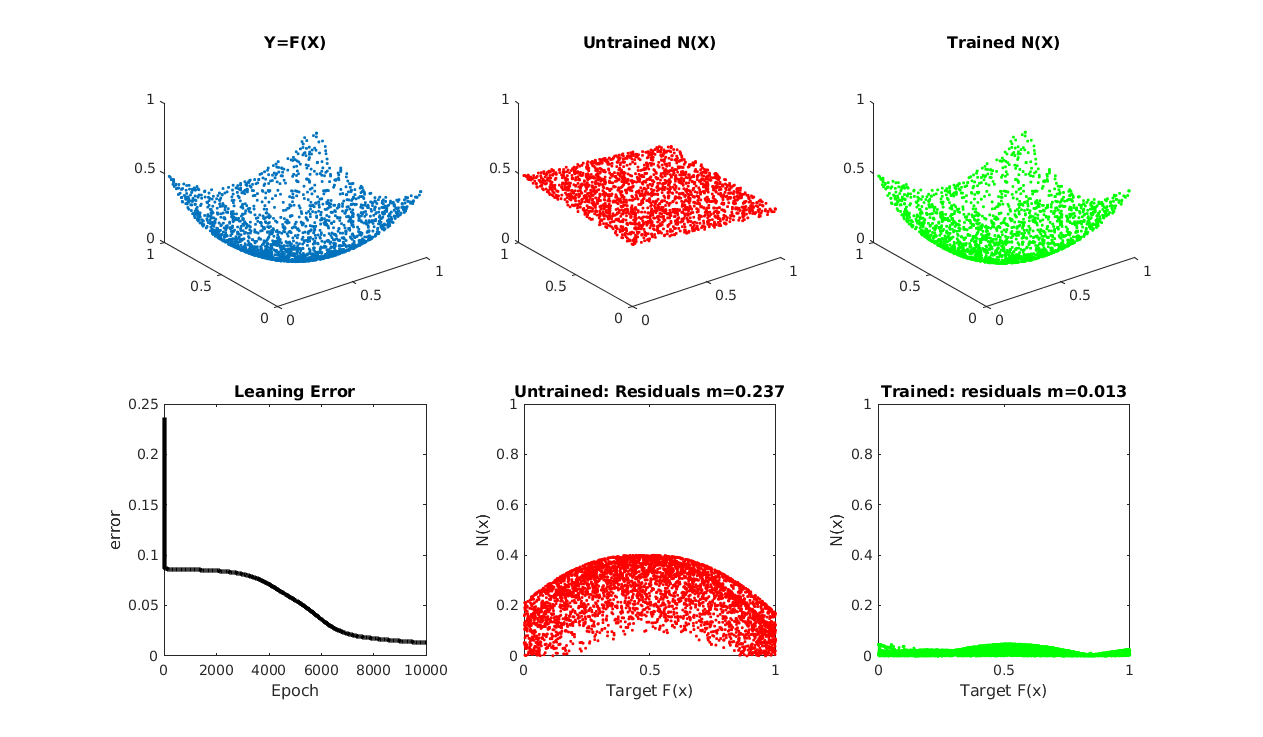
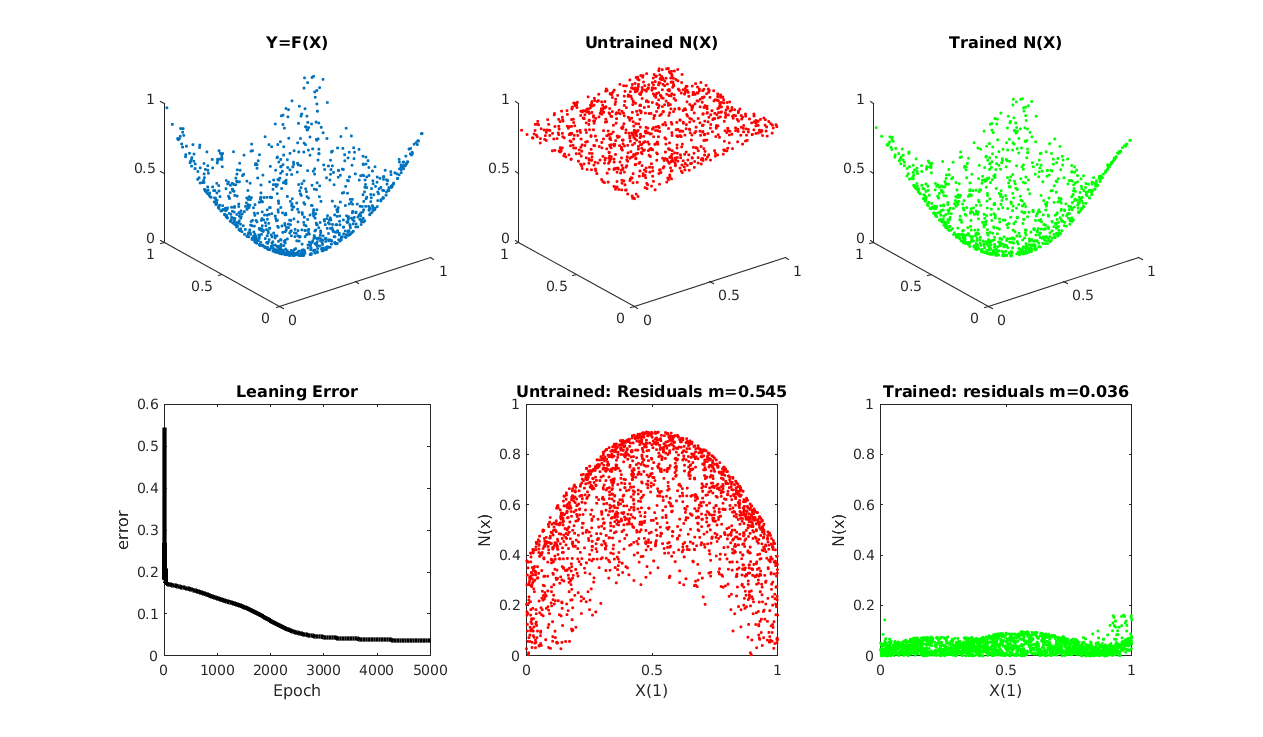
main

diff --git a/mlp/mlp_backprop.m b/mlp/mlp_backprop.m
@@ -3,20 +3,33 @@
 % T: Target data
 function N=mlp_backprop(N,X,T)
  lc=N.lc;                       % Learning coefficient
- [Y, H]=mlp_activate(N,X);      % Activate the MLP on data 
- E=T-Y;                         % Errors for each data patterns
+ mc=N.mc;                       % Momentum coefficient
  
- dY = E.*Y.*(1-Y);              % Deltas at the output layer
- dW = (H'*dY);                  % Weight change 
- N.ow = N.ow + lc * dW;         % ow: [nh,no]
- N.ob = N.ob + lc * sum(dY);    % ob  [1 ,no]
+ [Y, H]=mlp_activate(N,X);      % Activate the MLP on data
  
- dH = (dY*N.ow').*H.*(1-H);     % Deltas at the hidden layer  
- dW = (X'*dH);                  % Weigh changes 
- N.hw = N.hw + lc * dW;         % hw  [in,nh]
- N.hb = N.hb + lc * sum(dH);    % hb  [1 ,nh]
+ oE=T-Y;                        % Errors at the output layer 
+ dY = oE.*Y.*(1-Y);             % Deltas at the output layer
+ dW = (H'*dY);                  % Weight change
+ dB = sum(dY);                  % change of bias
+  
+ N.dow=mc*N.dow+(1-mc)*dW;      % Momentum term (weights)
+ N.dob=mc*N.dob+(1-mc)*dB;      % momentum of bias
  
- N.e=mean(abs(E(:)));           % Average error over all output units and all data
+ N.ow = N.ow + lc * N.dow;      % ow: [nh,no]
+ N.ob = N.ob + lc * N.dob;      % ob  [1 ,no]
+ 
+ hE=(dY*N.ow');                 % Errors at the hidden layer (propoagated from top layer)
+ dY = hE.*H.*(1-H);             % Deltas at the hidden layer  
+ dW = (X'*dY);                  % Weigh changes 
+ dB = sum(dY);                  % change of bias
+ 
+ N.dhw=mc*N.dhw+(1-mc)*dW;      % Momentum term of weights
+ N.dhb=mc*N.dhb+(1-mc)*dB;      % momentum of bias
+ 
+ N.hw = N.hw + lc * N.dhw;      % hw  [in,nh]
+ N.hb = N.hb + lc * N.dhb;      % hb  [1 ,nh]
+ 
+ N.e=mean(abs(oE(:)));          % Average error over all output units and all data
  N.lepochs=N.lepochs+1;         % Add the number of epochs so far
  N.lpatterns=N.lpatterns+size(X,1); % Total number of learning patterns
 

diff --git a/digits/digitdata.m b/digits/digitdata.m
@@ -1,24 +1,37 @@
-% [X,Y,N,A]=digitdata(n,lim)
-% loads n digits of size 20x20
-% Example: [X,Y,N,A]=digitdata(100);
+% D=digitdata
+% Load digit- dataset and add a digit-balanced set for training, test, and validation.
+% The digit images of size 20x20 are stored as vectorized. 
+% To turn back do images, use img=reshape(vect,20,20)
+%
+% D.IMG: matrix with vectorized 5000 images of digits (500 images per digit)
+% D.Num: digit label (0..9)
+% D.Ang: image inclination circa (-50 .. 50 degree)
+% D.Itr: set of nte images per digit, to be usef for training
+% D.Ite: set of nte images per digits, to used for test
+% D.Iva: set of nva images per digits, to be used or validation
 
-function [X,Y,N,A]=digitdata(n)
-load('Digits20x20');
-X=[]; N=[]; A=[];
+function D=digitdata(ntr,nte,nva)
+load('Digits20x20');                  % Load dataset
+if (ntr+nte+nva)*10>D.n, 
+  error('Too many samples. In total there are 500 samples per digit.'); 
+end
+Itr=[]; Ite=[]; Iva=[];               % Empty indexes
 
-for i=0:9
-  I=find(D.Num==i);
+for dig=0:9    
+  I=find(D.Num==dig);                 % Find all images containing digit "dig"
   nI=numel(I);
-  I=I(randperm(nI,n));
-  X=[X;D.IMG(I,:)];
-  N=[N;D.Num(I,:)];
-  A=[A;D.Ang(I,:)];
+  I=I(randperm(nI));                  % randomize the index
+  
+  Itr=[Itr;I(1:ntr)]; I=I(ntr+1:end); % add to the training set and keep the rest
+  Ite=[Ite;I(1:nte)]; I=I(nte+1:end); % add to the test set and keep the rest  
+  Iva=[Iva;I(1:nva)];                 % add to the validation set  
 end
 
-nn=numel(N);
-Y=zeros(nn,10);         % memory for one-hot-coding
-for i=1:nn
-  Y(i,N(i)+1)=1;        % one-hot-coding of N (N is 0-9)
-end
+D.Itr=Itr;                            % Training, test, validation subset
+D.Ite=Ite;
+D.Iva=Iva;
+D.ntr=numel(D.Itr);                   % Size of those subsets
+D.nte=numel(D.Ite);
+D.nva=numel(D.Iva;)
 
 end

diff --git a/mlp/test_mlp.m b/mlp/test_mlp.m
@@ -1,13 +1,13 @@
 % MLP as universal function approximator
 
 % DATA
-X=rand(2000,2);                       % X [ 0...1 , 0...1 ]
-T=(X(:,1)-0.5).^2 + (X(:,2)-0.5).^2; % F(x) quadratic function
+X=rand(1000,2);                       % X [ 0...1 , 0...1 ]
+T=((X(:,1)-0.5).^2 + (X(:,2)-0.5).^2)*2; % F(x) quadratic function. F(x)=[0..1]                                
 
 %% MODEL
 N = mlp_init([2 30 1]); 
 Y0 = mlp_activate(N,X);
-N = mlp_train(N,X,T,10000);
+N = mlp_train(N,X,T,5000);
 Y1 = mlp_activate(N,X);
 
 %% DIAGNOSTICS
@@ -15,8 +15,8 @@ Residuals0=abs(T-Y0);		% untrained
 Residuals1=abs(T-Y1);		% trained
 
 % Numerical output
-merr0=mean(abs(Difference0)); 	% average error untrained
-merr1=mean(abs(Difference1));	% average error trained
+merr0=mean(abs(Residuals0)); 	% average error untrained
+merr1=mean(abs(Residuals1));	% average error trained
 fprintf('error Untrained = %.3f  Trained %.3f \n',merr0,merr1);
 
 %% Graphical analysis
@@ -48,18 +48,18 @@ ylabel('error');
 title('Leaning Error');
 
 subplot(2,3,5);  
-plot(X,Difference0,'r.');	% plot target vs untrained (as dots)
+plot(X,Residuals0,'r.');	% plot target vs untrained (as dots)
 axis equal;                 	% use same scale for absc and ordinate
 xlim([0 1]);ylim([0 1]);
-xlabel('Target F(x)'); 
+xlabel('X(1)'); 
 ylabel('N(x)');
 title(sprintf('Untrained: Residuals m=%.3f',merr0));
 
 subplot(2,3,6);             
-plot(X,Difference1,'g.');	% plot targets vs trained (as dots)
+plot(X,Residuals1,'g.');	% plot targets vs trained (as dots)
 axis equal;
 xlim([0 1]);ylim([0 1]);
-xlabel('Target F(x)'); 
+xlabel('X(1)'); 
 ylabel('N(x)');
 title(sprintf('Trained: residuals m=%.3f',merr1));
 

diff --git a/mlp/mlp_init.m b/mlp/mlp_init.m
@@ -3,12 +3,15 @@
 % sz=[n-input units, n-hidden units, n-output units]
 % Returns variable N: a structure containing the layer weights, ready to be trained
 
-function N=mlp_init(sz)
-
-N.sz=sz;                  		% network size (we expect 3 layers)
+function N=mlp_init(sz,par)
+if nargin<2,                    % Default learning parameters
+  par.lc=0.03; par.mc=0.8; par.wsd=0.1; 
+end
+N.sz=sz;                        % network size (we expect 3 layers)
 N.nlayers = numel(sz);          % the total number of the layers (including inp and out)
-N.lc=0.003;                     % learning coefficient
-N.wsd=0.5;                      % st.dev. of gassian weight init
+N.lc=par.lc;                    % learning coefficient
+N.mc=par.mc;                    % momentum term
+N.wsd=par.wsd;                  % st.dev. of gassian weight init
 N.lepochs=0;                    % Learning epochs so far
 N.lpatterns=0;                  % Learning patterns so far
 N.E=[];                         % keep history of learing error
@@ -19,5 +22,10 @@ N.hb=zeros(1,sz(2));           	% null bias
 N.ow=randn(sz(2),sz(3))*N.wsd;  % random weights of the ouput layer (n-hid x n-out)
 N.ob=zeros(1,sz(3));           	% null bias of output units
 
+N.dhw=zeros(size(N.hw));
+N.dhb=zeros(size(N.hb));
+
+N.dow=zeros(size(N.ow));
+N.dob=zeros(size(N.ob));
 
 end

diff --git a/digits/confusionmatrix.m b/digits/confusionmatrix.m
@@ -1,0 +1,20 @@
+% function M=confusionmatrix(R,T,Cat)
+% calculates the conditional distribution P(response-category|target-category)
+% INPUT:
+% R: responses, 
+% T: targets,
+% Cat: list of all categories 
+% OUTPUT:
+% matrix p(response | target)
+
+function M=confusionmatrix(R,T,Cat)
+ n=numel(Cat);
+ M=zeros(n,n);                      % Distribution of responses per category
+ for c=1:n                          % target categories
+   for i=1:n                        % levels of response 
+     M(c,i)=sum(T==Cat(c) & R==Cat(i)); % count co-occurences 
+   end
+   M(c,:)=M(c,:)/sum(M(c,:));       % Normalize to obtain conditional distribution
+ end
+ 
+end

diff --git a/digits/onehot2digit.m b/digits/onehot2digit.m
@@ -1,0 +1,18 @@
+% X=digit2onehot(Y)
+% decode a matrix with one-hot coding of ditis (0..9)
+% Input:  Y, matrix with 10 collumns 
+% Output: X, vector containing for each pattern in Y (rows) the digit with strongest activation
+
+function [X,pX]=onehot2digit(Y)
+
+n=size(Y,1);            % number of data patterns
+X=zeros(n,1);          	% vector with the decoded digit
+pX=X;
+for i=1:n
+  [p,j]=max(Y(i,:));    % find the position of the item with strongest activation
+  X(i)=j-1;             % transform the position to digit [1..10] -> [0..9]
+ pX(i)=p/sum(Y(i,:));   % the probability of the item with the strongest activation
+  
+end
+
+end

diff --git a/digits/digit2onehot.m b/digits/digit2onehot.m
@@ -1,0 +1,14 @@
+% Y=digit2onehot(X)
+% returns one-hot coding of a vector of ditis (0..9)
+% Input:  X, vector with digits 
+% Output: Y, matrix with 10 collumns with orthgonal (one-hot) coding of each digit in X
+
+function Y=digit2onehot(X)
+
+n=numel(X);		% number of data patterns
+Y=zeros(n,10);         	% array for the one-hot code
+for i=1:n
+  Y(i,X(i)+1)=1;        % one-hot-code for each number
+end
+
+end

diff --git a/digits/README.md b/digits/README.md
@@ -1,1 +1,12 @@
+# Digit perception
+
+- *Digits20x20.mat* is a mat-file containing images of digits. Hereafter some samples.
+
+
 ![sample digits](sample_digits.png)
+
+- digitdata.m is a reader of that file and prepares a balances set of images for training, test, and validation
+
+- Hereafter the training progress of a simple MLP-based model of digit perception showing classification error and confusion matrix
+
+![sample training](sample_training.png)

diff --git a/README.md b/README.md
@@ -8,7 +8,9 @@ Content:
 
 - implementation of a [basic statistical model](https://github.com/stoianov/MLCC2020/tree/main/statmodel/)
 - implementation of a [2-layer MLP](https://github.com/stoianov/MLCC2020/tree/main/mlp/)
+- implementation of [digit perception](https://github.com/stoianov/MLCC2020/tree/main/digits/)
 
 #Prerequisites
 
 Minimal knowledge of Matlab and basic math 
+
